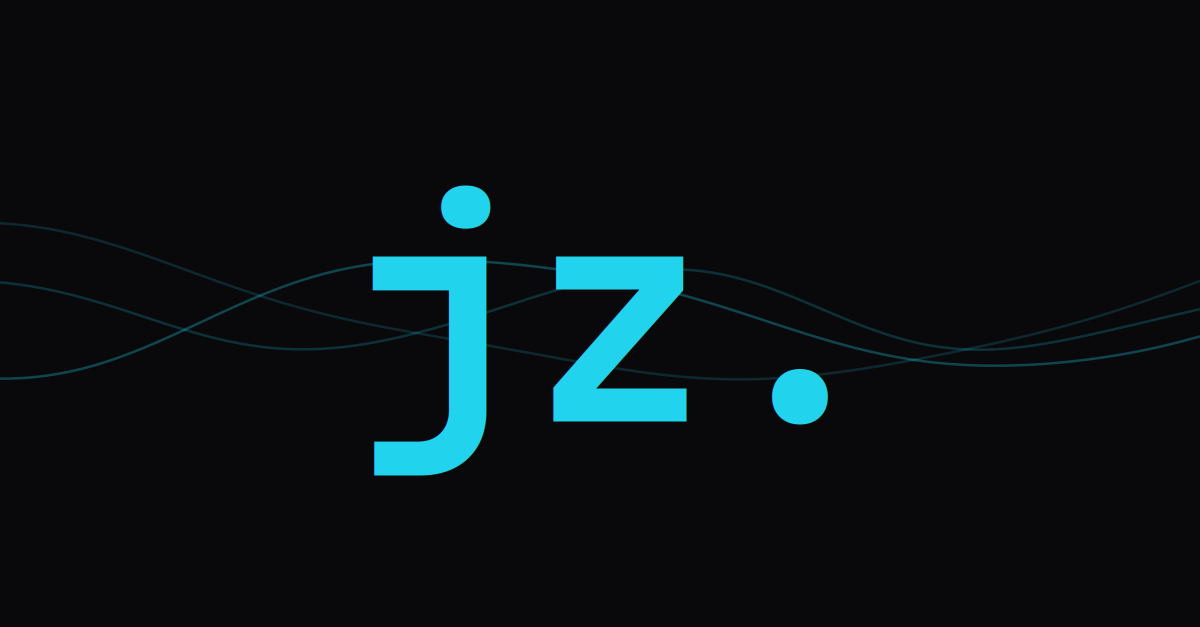
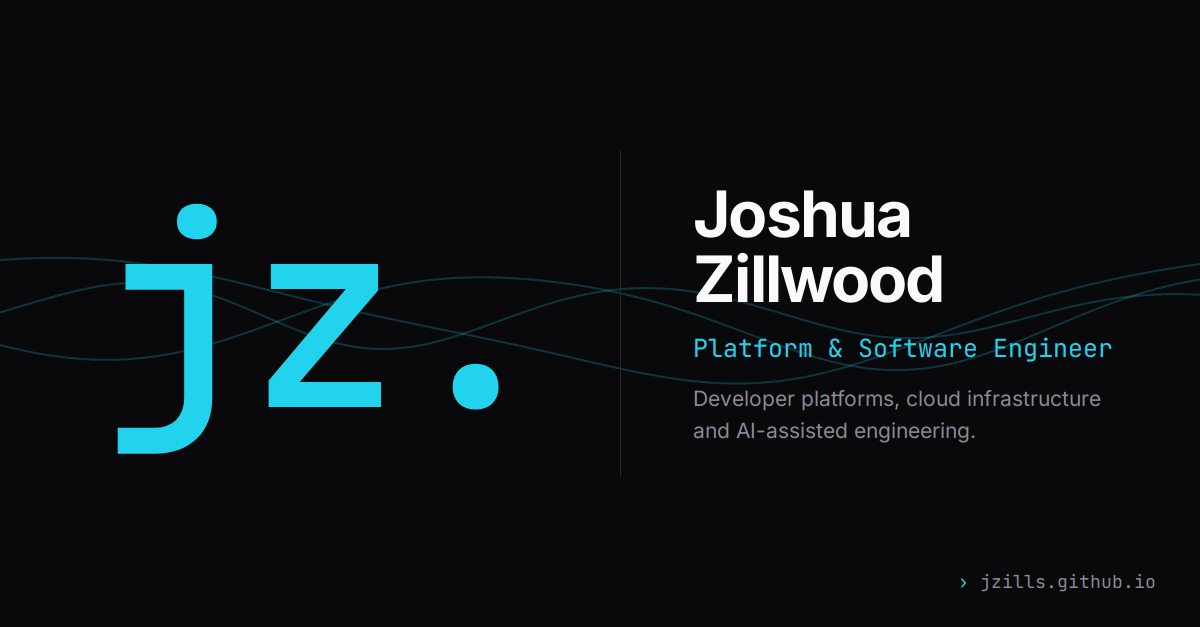
feat(meta): preview image with name and headline beside the jz. monogram
The link-preview image keeps the jz. mark and waveform, and adds the name,
headline, a one-line tagline and the URL so shared links say who it is.
Its source lives in scripts/og-image.html; the og:image URLs carry ?v=2 so
LinkedIn, Slack and X fetch the new image instead of a cached copy.

diff --git a/scripts/og-image.html b/scripts/og-image.html
@@ -1,0 +1,84 @@
+<!doctype html>
+<!--
+  Source for public/og-image.png, the link-preview image (1200x627).
+  Layout "a" is the one in use; "b" (?v=b) is the centred alternative.
+  To regenerate, screenshot this page at 1200x627 with a headless browser
+  once its fonts have loaded, e.g. with Playwright:
+    page.setViewportSize({ width: 1200, height: 627 })
+    page.goto('file://.../scripts/og-image.html'); await document.fonts.ready
+    page.screenshot({ path: 'public/og-image.png' })
+  Then bump the ?v= on the og:image URLs in index.html so previews refresh.
+-->
+<html>
+<head>
+<meta charset="utf-8">
+<link href="https://fonts.googleapis.com/css2?family=Inter:wght@400;500;700&family=JetBrains+Mono:wght@400;500&display=swap" rel="stylesheet">
+<style>
+  :root { --bg: #09090b; --fg: #fafafa; --muted: #8b8b94; --accent: #22d3ee; --border: #27272a; }
+  * { margin: 0; box-sizing: border-box; }
+  html, body { width: 1200px; height: 627px; background: var(--bg); overflow: hidden; }
+  canvas { position: absolute; inset: 0; }
+  .mono { font-family: 'JetBrains Mono', monospace; }
+  .sans { font-family: 'Inter', sans-serif; }
+  .mark { color: var(--accent); font-weight: 500; letter-spacing: -0.02em; line-height: 1; }
+
+  /* A: monogram left, text right */
+  .a { position: absolute; inset: 0; display: flex; align-items: center; padding: 0 96px; gap: 72px; }
+  .a .mark { font-size: 260px; }
+  .a .rule { width: 1px; flex-shrink: 0; align-self: stretch; margin: 150px 0; background: var(--border); }
+  .a h1 { font-size: 64px; font-weight: 700; color: var(--fg); letter-spacing: -0.03em; line-height: 1.02; }
+  .a .head { margin-top: 20px; font-size: 25px; white-space: nowrap; color: var(--accent); }
+  .a .tag { margin-top: 18px; font-size: 21px; color: var(--muted); line-height: 1.5; max-width: 520px; }
+
+  /* B: monogram centred as now, name and headline beneath */
+  .b { position: absolute; inset: 0; display: flex; flex-direction: column; align-items: center; justify-content: center; }
+  .b .mark { font-size: 200px; margin-top: -24px; }
+  .b h1 { margin-top: 34px; font-size: 54px; font-weight: 700; color: var(--fg); letter-spacing: -0.03em; }
+  .b .head { margin-top: 14px; font-size: 24px; color: var(--muted); }
+  .b .head span { color: var(--accent); }
+
+  .url { position: absolute; right: 44px; bottom: 34px; font-size: 18px; color: var(--muted); }
+  .url span { color: var(--accent); }
+  .center-url .url { right: auto; left: 50%; transform: translateX(-50%); }
+</style>
+</head>
+<body>
+<canvas id="w" width="1200" height="627"></canvas>
+<div id="root"></div>
+<script>
+  const v = new URLSearchParams(location.search).get('v') || 'a'
+  // The hero's waveform, frozen at one moment: same three waves as the site.
+  const ctx = document.getElementById('w').getContext('2d')
+  const W = 1200, H = 627, cy = v === 'a' ? H * 0.5 : H * 0.44, t = 3.1
+  const noise = (x) => Math.sin(x * 1.7) * 0.5 + Math.sin(x * 3.3) * 0.3 + Math.sin(x * 0.7) * 0.2
+  const waves = [
+    { freq: 0.008, amp: 0.07, speed: 0.004, phase: 0 },
+    { freq: 0.012, amp: 0.045, speed: 0.007, phase: Math.PI * 0.6 },
+    { freq: 0.005, amp: 0.1, speed: 0.002, phase: Math.PI * 1.3 },
+  ]
+  ctx.strokeStyle = 'rgba(34, 211, 238, 0.22)'
+  ctx.lineWidth = 2
+  for (const wave of waves) {
+    ctx.beginPath()
+    for (let x = 0; x <= W; x += 2) {
+      const amp = H * wave.amp * (1 + noise(x * 0.003 + t * 0.5 + wave.phase) * 0.4)
+      const y = cy + Math.sin(x * wave.freq + t * wave.speed * 60 + wave.phase) * amp
+      x === 0 ? ctx.moveTo(x, y) : ctx.lineTo(x, y)
+    }
+    ctx.stroke()
+  }
+  if (v === 'b') document.body.classList.add('center-url')
+  const url = '<p class="url mono"><span>›</span> jzills.github.io</p>'
+  document.getElementById('root').innerHTML = v === 'a'
+    ? `<div class="a"><div class="mark mono">jz.</div><div class="rule"></div><div>
+         <h1 class="sans">Joshua<br>Zillwood</h1>
+         <p class="head mono">Platform &amp; Software Engineer</p>
+         <p class="tag sans">Developer platforms, cloud infrastructure and AI-assisted engineering.</p>
+       </div></div>${url}`
+    : `<div class="b"><div class="mark mono">jz.</div>
+         <h1 class="sans">Joshua Zillwood</h1>
+         <p class="head mono"><span>&gt;</span> Platform &amp; Software Engineer</p>
+       </div>${url}`
+</script>
+</body>
+</html>

diff --git a/index.html b/index.html
@@ -14,16 +14,16 @@
     <meta property="profile:last_name" content="Zillwood" />
     <meta property="og:locale" content="en_US" />
     <meta property="og:url" content="https://jzills.github.io" />
-    <meta property="og:image" content="https://jzills.github.io/og-image.png" />
+    <meta property="og:image" content="https://jzills.github.io/og-image.png?v=2" />
     <meta property="og:image:type" content="image/png" />
     <meta property="og:image:width" content="1200" />
     <meta property="og:image:height" content="627" />
-    <meta property="og:image:alt" content="The jz. monogram in cyan over faint oscilloscope waveforms on a dark background" />
+    <meta property="og:image:alt" content="The jz. monogram beside Joshua Zillwood, Platform &amp; Software Engineer, over faint cyan waveforms" />
     <meta name="twitter:card" content="summary_large_image" />
     <meta name="twitter:title" content="Joshua Zillwood — Platform & Software Engineer" />
     <meta name="twitter:description" content="Building developer platforms and cloud infrastructure, with a focus on AI-assisted engineering." />
-    <meta name="twitter:image" content="https://jzills.github.io/og-image.png" />
-    <meta name="twitter:image:alt" content="The jz. monogram in cyan over faint oscilloscope waveforms on a dark background" />
+    <meta name="twitter:image" content="https://jzills.github.io/og-image.png?v=2" />
+    <meta name="twitter:image:alt" content="The jz. monogram beside Joshua Zillwood, Platform &amp; Software Engineer, over faint cyan waveforms" />
     <meta name="theme-color" content="#09090b" media="(prefers-color-scheme: dark)" />
     <meta name="theme-color" content="#fafafa" media="(prefers-color-scheme: light)" />
     <link rel="canonical" href="https://jzills.github.io" />
@@ -33,7 +33,7 @@
         "@type": "Person",
         "name": "Joshua Zillwood",
         "url": "https://jzills.github.io",
-        "image": "https://jzills.github.io/og-image.png",
+        "image": "https://jzills.github.io/og-image.png?v=2",
         "jobTitle": "Platform & Software Engineer",
         "knowsAbout": ["Platform Engineering", "Kubernetes", "DevOps", "CI/CD", ".NET", "C#", "Go", "Python", "TypeScript", "AI Agents", "Generative Media"],
         "sameAs": [
